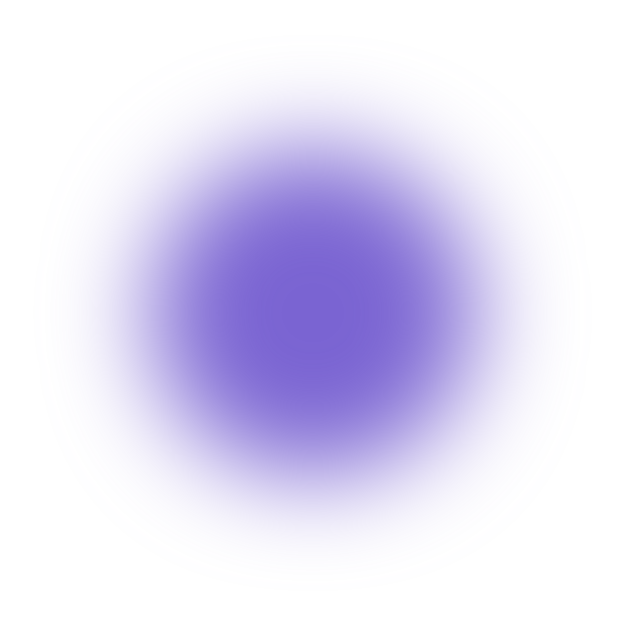
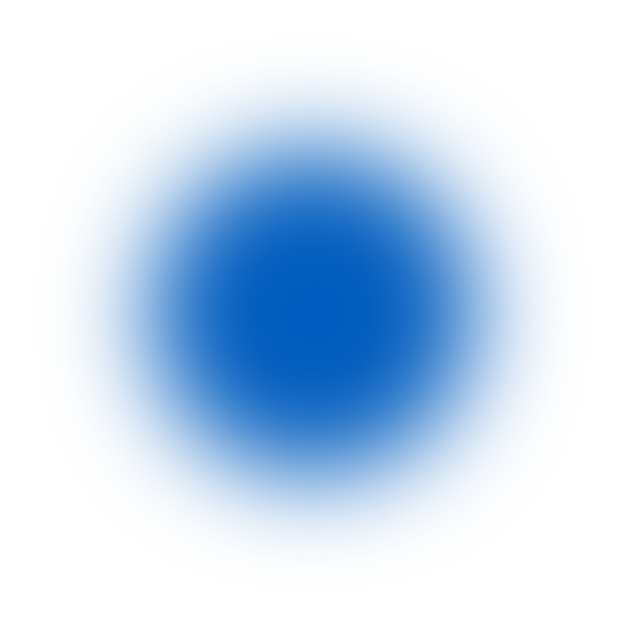
onboarding FE final touches

diff --git a/components/Onboarding/Onboarding.js b/components/Onboarding/Onboarding.js
@@ -1,5 +1,6 @@
 import { useState, useEffect } from "react";
-import { Container, Button } from "react-bootstrap";
+import { Container, Button, Image } from "react-bootstrap";
+import moment from "moment";
 import Layout from "components/Layout";
 import styled from "styled-components";
 import {
@@ -10,22 +11,41 @@ import {
 import VideoPlayerNonHLS from "components/VideoPlayer/VideoPlayerNonHLS";
 import CircleButton from "components/Buttons/CircleButton";
 import { FaChevronRight } from "react-icons/fa";
+import { mediaBreakpoint } from "utils/breakpoints";
+
 const OuterContainer = styled.div`
-	min-height: 600px;
+	min-height: 100vh;
 	width: 100%;
-	padding-bottom: 32px;
-	padding-top: 144px;
+	justify-content: center;
+	padding-bottom: 0;
+	padding-top: calc(112px + 64px);
+	padding-bottom: 64px;
+	background: ${(props) => props.bg};
 	transition: background 0.5s;
 	display: flex;
 	flex-direction: column;
+
+	@media ${mediaBreakpoint.down.md} {
+		padding-top: calc(75px + 32px);
+		padding-bottom: 32px;
+		min-height: 100vh;
+	}
 `;
+
 const VideoContainer = styled.div`
-	max-width: 810px;
+	max-width: 740px;
 	width: 100%;
 `;
 const StyledHeadingSM = styled(HeadingSM)`
 	font-family: MontserratRegular;
 	font-size: 16px;
+`;
+const HighHeadingSM = styled(HeadingSM)`
+	z-index: 3;
+
+	@media ${mediaBreakpoint.down.md} {
+		font-size: 24px;
+	}
 `;
 const FinishBtn = styled(Button)`
 	padding: 16px 24px;
@@ -35,6 +55,36 @@ const FinishBtn = styled(Button)`
 		font-size: 16px;
 	}
 	border: none;
+`;
+const Blob = styled(Image)`
+	position: absolute;
+	z-index: 2;
+
+	&.teal {
+		right: 0;
+		bottom: -10px;
+	}
+
+	&.purple {
+		right: -40px;
+		bottom: 30px;
+
+		@media ${mediaBreakpoint.down.md} {
+			right: 0;
+			top: 0;
+			width: 320px;
+			height: 320px;
+		}
+	}
+`;
+const StyledCharacterImage = styled(Image)`
+	width: 320px;
+	height: 107px;
+	margin-top: 32px;
+`;
+
+const StyledP = styled.p`
+	z-index: 3;
 `;
 export default function Onboarding({
 	onboardings,
@@ -51,7 +101,12 @@ export default function Onboarding({
 	};
 
 	const [stage, setStage] = useState(1);
-	const bgArr = ["lightblue2", "palegreen", "darkpalegreen", "darkpalegreen"];
+	const bgArr = [
+		"#02a0e1",
+		"#42a591",
+		"#007474",
+		"linear-gradient(#1022a4, #31a4fa)",
+	];
 	const [btnDisplayed, setBtnDisplayed] = useState(false);
 	const [firstName, setFirstName] = useState("");
 	const [url, setUrl] = useState(onboardings[0][`video_intro_1`].url);
@@ -83,9 +138,9 @@ export default function Onboarding({
 			</HeadingMD>
 		</>,
 		<>
-			<HeadingSM as="h1" className="text-white">
+			<HighHeadingSM as="h1" className="text-white">
 				{firstName}, do you copy?{" "}
-			</HeadingSM>
+			</HighHeadingSM>
 		</>,
 		<>
 			<HeadingSM as="h1" className="text-white">
@@ -100,28 +155,41 @@ export default function Onboarding({
 		} else if (stage === 3) {
 			setVP(
 				<>
-					<p className="text-center mt-5 text-white">
+					<StyledP className="text-center mt-5 text-white">
 						It’s me, future {firstName}. I’m calling from 2022 because today is
 						an important
 						<br />
 						day for you - for us!
-					</p>
-					<HeadingSM className="text-center text-yellow2 mt-3">
-						Wednesday, 2 June, 2021 is the day
+					</StyledP>
+					<HighHeadingSM
+						as="p"
+						className="text-center text-yellow2 mt-lg-3 mt-1"
+					>
+						{moment(user.created_at).format("dddd, D MMMM, yyyy")} is the day
 						<br />
 						we decided to change our lives for the better
-					</HeadingSM>
+					</HighHeadingSM>
 
-					<p className="text-center mt-5 text-white">
+					<StyledP className="text-center mt-lg-5 mt-3 text-white">
 						I have excellent news, I’m healthy, in great shape, and worry-free,
 						thanks to choices you’re making.
 						<br />
 						I’ll be with you every step of the way. See you soon!
-					</p>
+					</StyledP>
 
-					<HeadingSM className="mt-1 ml-auto mr-auto mr-lg-5 text-white">
+					<HighHeadingSM
+						as="p"
+						className="mt-1 ml-auto mr-auto mr-lg-5 text-white"
+					>
 						future {firstName}
-					</HeadingSM>
+					</HighHeadingSM>
+
+					<Blob className={`teal`} src={"/images/blueblob.png"} alt="Blob" />
+					<Blob
+						className={`purple`}
+						src={"/images/purpleblob.png"}
+						alt="Blob"
+					/>
 				</>
 			);
 			setBtnDisplayed(true);
@@ -134,7 +202,7 @@ export default function Onboarding({
 						<br />
 						day for you - for us!
 					</p>
-					<HeadingSM as="p" className="text-center text-yellow2 mt-3">
+					<HighHeadingSM as="p" className="text-center text-yellow2 mt-3">
 						I, {firstName}, will make the most of tommorow.
 						<br />
 						I will always remember that I will not live forever.
@@ -142,7 +210,7 @@ export default function Onboarding({
 						Every fear and irritation that threatens to distract me
 						<br />
 						will become fuel for building my best life one day at the time
-					</HeadingSM>
+					</HighHeadingSM>
 					<FinishBtn
 						onClick={handleFinishOnboarding}
 						className="mt-4 mx-auto bg-primary1"
@@ -160,12 +228,14 @@ export default function Onboarding({
 			setVP(<></>);
 			setTimeout(() => {
 				setVP(
-					<VideoContainer className="mt-4">
-						<VideoPlayerNonHLS
-							liveUrl={url}
-							onVideoFinished={onVideoFinished}
-						/>
-					</VideoContainer>
+					<>
+						<VideoContainer className="mt-4">
+							<VideoPlayerNonHLS
+								liveUrl={url}
+								onVideoFinished={onVideoFinished}
+							/>
+						</VideoContainer>
+					</>
 				);
 			}, 300);
 			setBtnDisplayed(false);
@@ -178,12 +248,12 @@ export default function Onboarding({
 			scrollToSolid
 			background="rgba(0,0,0,0.27)"
 		>
-			<OuterContainer className={`bg-${bgArr[stage - 1]}`}>
-				<Container className="d-flex flex-column justify-content-center align-items-center justify-content-center">
+			<OuterContainer bg={bgArr[stage - 1]}>
+				<Container className="position-relative d-flex flex-column justify-content-center align-items-center justify-content-center">
 					{headingText[stage - 1]}
 					{onboardings && VP}
 				</Container>
-				<div className="d-flex  mt-1">
+				<div className="d-flex flex-lg-row flex-column align-items-center mt-1">
 					{stage <= 2 && (
 						<StyledHeadingSM as="p" className="ml-lg-5 ml-0 text-white">
 							intro

diff --git a/components/Buttons/CircleButton.js b/components/Buttons/CircleButton.js
@@ -3,8 +3,8 @@ import { Button } from "react-bootstrap";
 import { Image } from "react-bootstrap";
 const StyledButton = styled(Button)`
 	border-radius: 100%;
-	height: 48px;
-	width: 48px;
+	height: 64px;
+	width: 64px;
 	border: none;
 `;
 export default function RoundedBtnIcon({ bg, icon, ...props }) {

diff --git a/components/LandingPage/Hero.js b/components/LandingPage/Hero.js
@@ -34,7 +34,7 @@ const StyledHeading = styled(HeadingXL)`
 
 const OuterContainer = styled.div`
 	height: 100vh;
-	background-image: linear-gradient(#1022a4, #31a4fa);
+	background: linear-gradient(#1022a4, #31a4fa);
 	@media (max-width: 320px) {
 		min-height: 100vh;
 	}

diff --git a/pages/dashboard/index.js b/pages/dashboard/index.js
@@ -37,7 +37,7 @@ const index = ({ token, onboardings, user }) => {
 					user={user}
 					onboardings={onboardings}
 				/>
-				;<button onClick={() => logout()}>logout</button>
+				<button onClick={() => logout()}>logout</button>
 			</>
 		);
 	}

diff --git a/styles/styles.scss b/styles/styles.scss
@@ -56,6 +56,8 @@ $yellow2: #fed214;
 $primary1: #171b2d;
 $paleGreen: #42a591;
 $darkPaleGreen: #007474;
+$colorTop: #1022a4;
+$colorBottom: #31a4fa;
 
 // Variables
 $primary: #171b2d;
